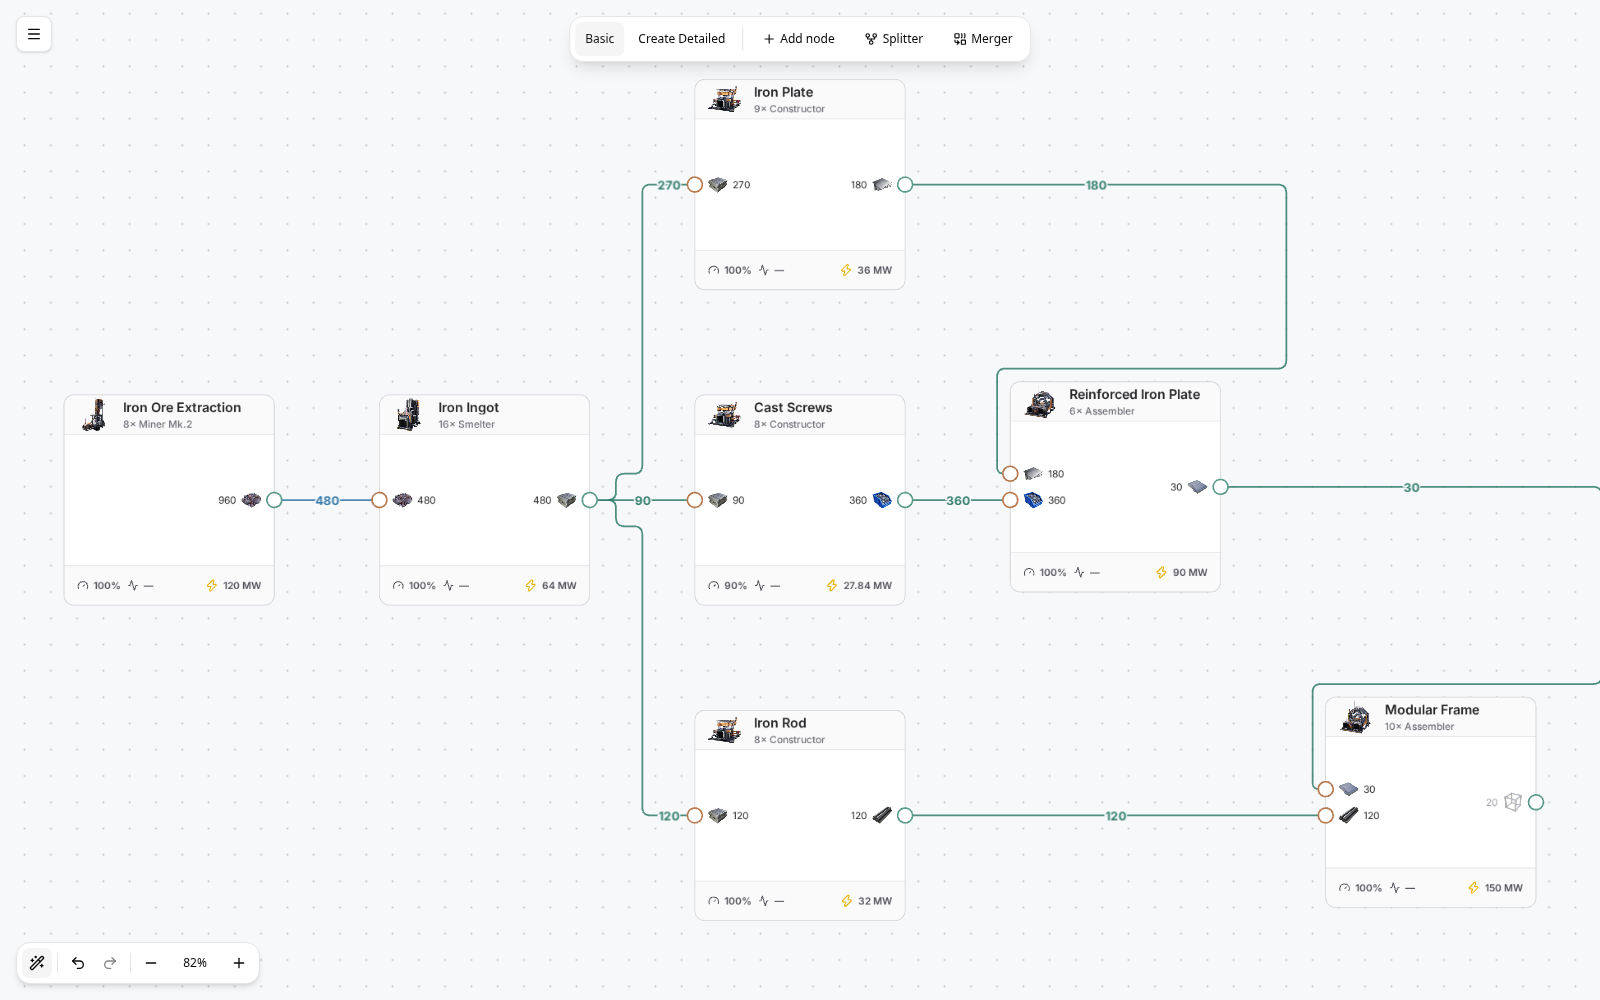
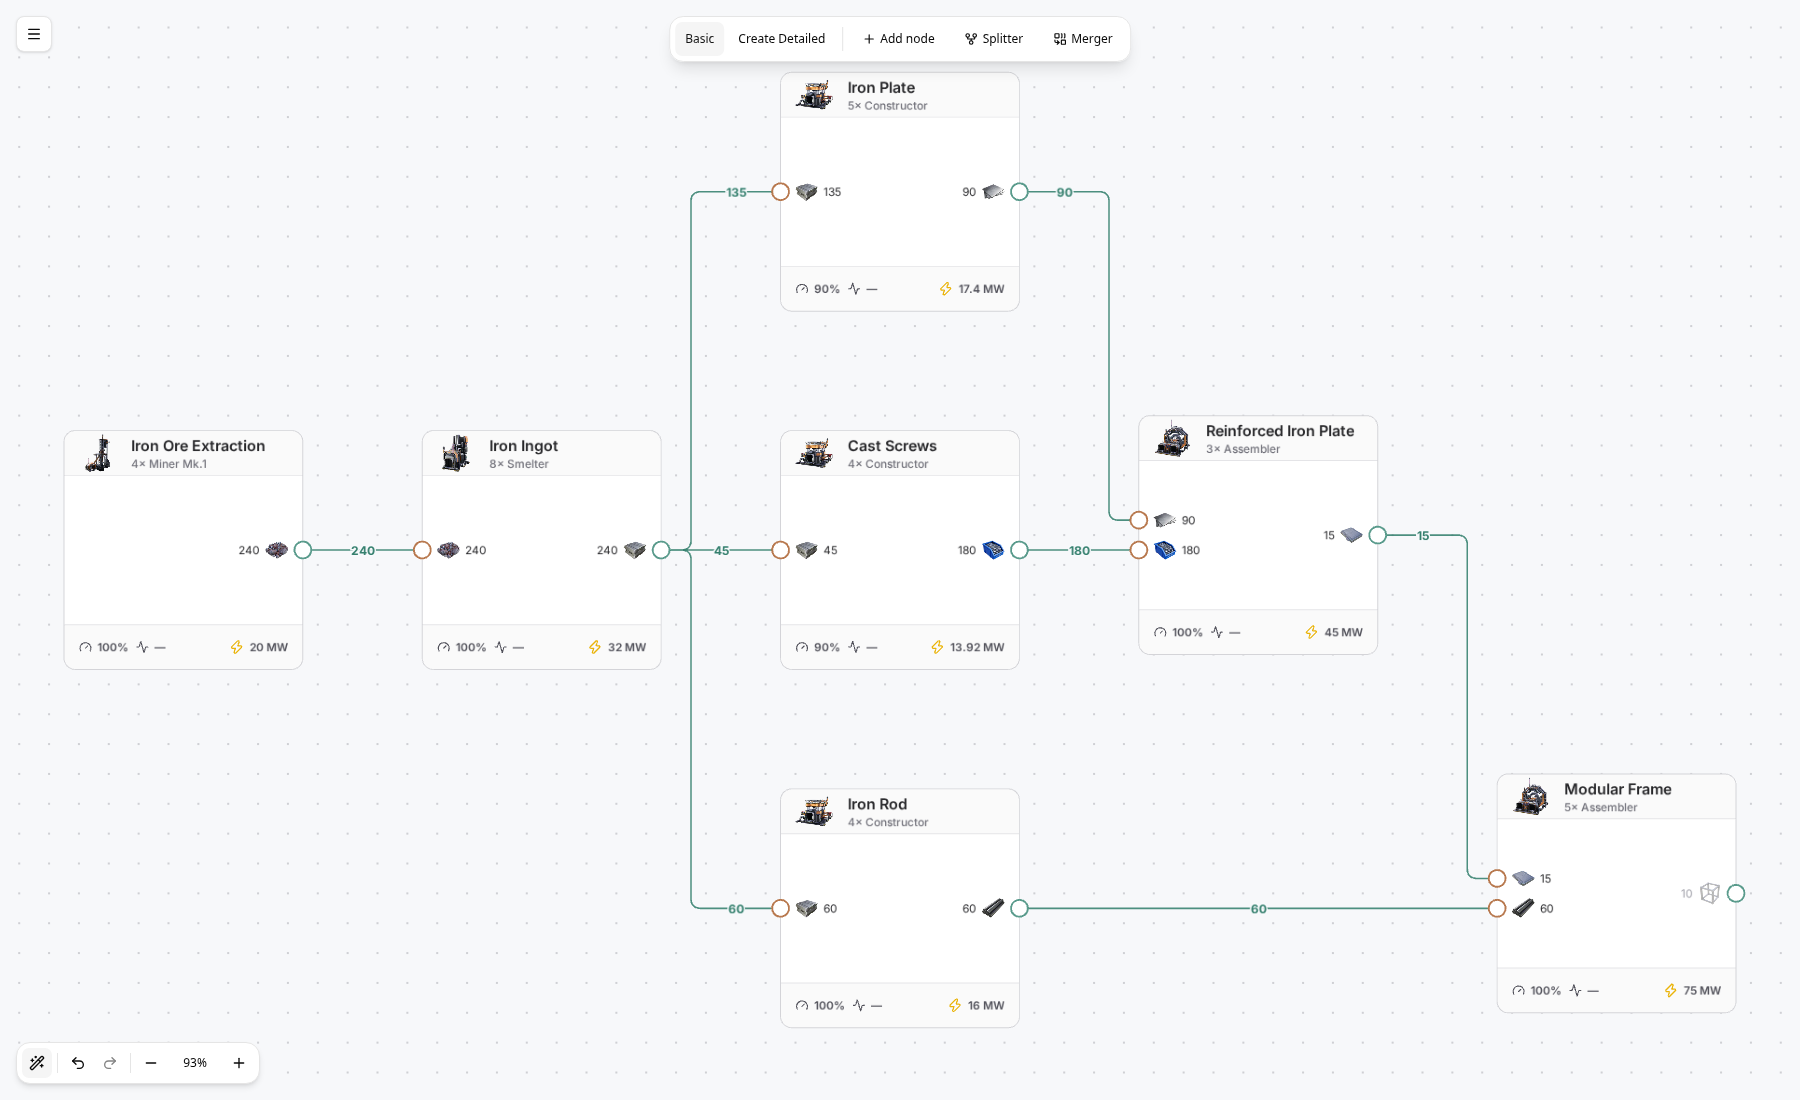
fix(canvas): route Basic plans around visible nodes

diff --git a/apps/web/e2e/basic-layout.spec.ts b/apps/web/e2e/basic-layout.spec.ts
@@ -1,0 +1,97 @@
+import { expect, test } from "@playwright/test";
+
+test("Basic generation and Auto-arrange keep open-corridor links direct", async ({
+  page,
+}, testInfo) => {
+  const errors: string[] = [];
+  page.on("pageerror", (error) => errors.push(error.message));
+  await page.setViewportSize({ width: 1800, height: 1100 });
+  await page.goto("/");
+  const canvas = page.getByRole("application", { name: "Infinite canvas" });
+  await canvas.press("n");
+  await page
+    .getByPlaceholder("Search buildings or recipes...")
+    .fill("modular frame");
+  await page
+    .getByRole("button", { name: "Auto-build Modular Frame", exact: true })
+    .first()
+    .click();
+  await page.getByRole("spinbutton", { name: "Modular Frame rate" }).fill("10");
+  await page
+    .getByText("Alternative recipes · standard recipes by default", {
+      exact: true,
+    })
+    .click();
+  await page
+    .getByRole("textbox", { name: "Search alternative recipes" })
+    .fill("Cast Screws");
+  await page.getByLabel("Cast Screws usage").selectOption("required");
+  await page.getByRole("button", { name: "Generate production plan" }).click();
+  await expect(
+    page.getByRole("dialog", { name: "Auto-build production" }),
+  ).toBeHidden({ timeout: 20000 });
+  const read = () =>
+    page.evaluate(async () => {
+      const storageUrl = "/src/canvas/document-storage.ts";
+      const { createIndexedDbDocumentStorage } = await import(storageUrl);
+      return (await createIndexedDbDocumentStorage().loadWorkspace()).document;
+    });
+  await expect.poll(async () => (await read()).nodes.length).toBe(7);
+  const validate = (document: Awaited<ReturnType<typeof read>>) => {
+    for (const link of document.materialLinks) {
+      const route = link.route as { x: number; y: number }[];
+      const from = route[0]!,
+        to = route.at(-1)!;
+      const travel = route
+        .slice(1)
+        .reduce(
+          (sum, p, i) =>
+            sum + Math.abs(p.x - route[i]!.x) + Math.abs(p.y - route[i]!.y),
+          0,
+        );
+      expect(travel, link.id).toBe(
+        Math.abs(to.x - from.x) + Math.abs(to.y - from.y),
+      );
+      if (from.y === to.y) expect(route, link.id).toEqual([from, to]);
+    }
+  };
+  const generated = await read();
+  validate(generated);
+  // Start the toolbar workflow from an unarranged saved plan so undo has
+  // a distinct state to restore even when generation is already deterministic.
+  await page.evaluate(async () => {
+    const storageUrl = "/src/canvas/document-storage.ts";
+    const { createIndexedDbDocumentStorage } = await import(storageUrl);
+    const storage = createIndexedDbDocumentStorage();
+    const { document } = await storage.loadWorkspace();
+    document.nodes[0].y += 64;
+    for (const link of document.materialLinks) delete link.route;
+    await storage.saveWorkspace(document);
+  });
+  await page.reload();
+  const original = await read();
+  // Exercise the toolbar entry point as well as Auto-build's arrangement.
+  const arrange = page.getByRole("button", {
+    name: "Auto-arrange",
+    exact: true,
+  });
+  await arrange.click();
+  await expect(arrange).toBeEnabled({ timeout: 20000 });
+  await expect
+    .poll(async () =>
+      (await read()).materialLinks.every((link: any) => !!link.route),
+    )
+    .toBe(true);
+  const arranged = await read();
+  validate(arranged);
+  await page.screenshot({
+    path: testInfo.outputPath("basic-direct-links.png"),
+  });
+  await page.getByRole("button", { name: "Undo", exact: true }).click();
+  await expect.poll(read).toEqual(original);
+  await page.getByRole("button", { name: "Redo", exact: true }).click();
+  await expect.poll(read).toEqual(arranged);
+  await page.reload();
+  expect(await read()).toEqual(arranged);
+  expect(errors).toEqual([]);
+});

diff --git a/apps/web/src/canvas/layout-routing.ts b/apps/web/src/canvas/layout-routing.ts
@@ -137,7 +137,15 @@ export function routeBetweenGroups(
   document: CanvasDocument,
   groups: readonly LayoutGroup[],
   initial: Routes,
+  topology: "aggregate" | "physical" = "physical",
 ): Map<string, readonly Point[]> {
+  // Recipe/logistics blocks guide placement in both modes, but only Detailed
+  // draws group boxes. Basic routes around the actual cards, including links
+  // between members of the same recipe block.
+  const boundaries = topology === "physical" ? groups : [];
+  const nodeById = new Map(
+    document.nodes.map((node) => [node.configuration.id, node]),
+  );
   const owners = new Map(
     groups.flatMap((group) => group.nodeIds.map((id) => [id, group] as const)),
   );
@@ -151,17 +159,25 @@ export function routeBetweenGroups(
     a.id.localeCompare(b.id),
   );
   const external = links.filter(
-    (link) => owners.get(link.from.nodeId) !== owners.get(link.to.nodeId),
+    (link) =>
+      topology === "aggregate" ||
+      owners.get(link.from.nodeId) !== owners.get(link.to.nodeId),
   );
   const candidates = new Map<string, readonly (readonly Point[])[]>();
   for (const link of external) {
     const from = ports.get(portKey(link.from.nodeId, link.from.portId))!;
     const to = ports.get(portKey(link.to.nodeId, link.to.portId))!;
-    const fromGroup = owners.get(from.nodeId)!;
-    const toGroup = owners.get(to.nodeId)!;
+    const fromBounds =
+      topology === "physical"
+        ? owners.get(from.nodeId)!
+        : nodeById.get(from.nodeId)!;
+    const toBounds =
+      topology === "physical"
+        ? owners.get(to.nodeId)!
+        : nodeById.get(to.nodeId)!;
     const obstacles = [
       ...document.nodes.map((node) => ({ ...node, id: node.configuration.id })),
-      ...groupRouteObstacles(groups, from.nodeId, to.nodeId),
+      ...groupRouteObstacles(boundaries, from.nodeId, to.nodeId),
     ];
     const padded = obstacles.map((rect) => ({
       ...rect,
@@ -177,10 +193,10 @@ export function routeBetweenGroups(
     if (
       from.side === "right" &&
       to.side === "left" &&
-      fromGroup.x + fromGroup.width < toGroup.x
+      fromBounds.x + fromBounds.width < toBounds.x
     ) {
-      const start = fromGroup.x + fromGroup.width + 32;
-      const end = toGroup.x - 32;
+      const start = fromBounds.x + fromBounds.width + 32;
+      const end = toBounds.x - 32;
       const lanes = new Set(
         [
           ...seed
@@ -254,7 +270,7 @@ export function routeBetweenGroups(
       }
       routes.set(link.id, chosen);
     }
-  spaceLayoutRoutes(document.nodes, links, routes, groups, external);
+  spaceLayoutRoutes(document.nodes, links, routes, boundaries, external);
   return routes;
 }
 

diff --git a/apps/web/src/canvas/basic-layout.test.ts b/apps/web/src/canvas/basic-layout.test.ts
@@ -1,0 +1,52 @@
+import { expect, it } from "vitest";
+import ELK from "elkjs/lib/elk.bundled.js";
+import { generateProduction } from "../auto-build/generate-production";
+import { arrangeCanvas } from "./auto-layout";
+import { materialPortGeometry } from "./material-port-geometry";
+import { routeIsClear } from "./orthogonal-router";
+
+it("routes a Basic modular-frame factory directly through its open corridors", async () => {
+  const source = generateProduction({
+    outputs: [{ itemId: "Desc_ModularFrame_C", ratePerMinute: 10 }],
+    allowedAlternateIds: [],
+    pinnedRecipes: { Desc_IronScrew_C: "Recipe_Alternate_Screw_C" },
+  }).document;
+  const result = await arrangeCanvas(source, new ELK(), "aggregate");
+  const ports = result.nodes.flatMap(materialPortGeometry);
+  for (const link of result.materialLinks) {
+    const route = link.route!;
+    const from = ports.find(
+      (p) => p.nodeId === link.from.nodeId && p.port.id === link.from.portId,
+    )!.point;
+    const to = ports.find(
+      (p) => p.nodeId === link.to.nodeId && p.port.id === link.to.portId,
+    )!.point;
+    expect(route[0]).toEqual(from);
+    expect(route.at(-1)).toEqual(to);
+    for (const p of route) {
+      expect(p.x, link.id).toBeGreaterThanOrEqual(from.x);
+      expect(p.x, link.id).toBeLessThanOrEqual(to.x);
+    }
+    const travel = route
+      .slice(1)
+      .reduce(
+        (n, p, i) =>
+          n + Math.abs(p.x - route[i]!.x) + Math.abs(p.y - route[i]!.y),
+        0,
+      );
+    expect(travel, link.id).toBe(
+      Math.abs(to.x - from.x) + Math.abs(to.y - from.y),
+    );
+    if (from.y === to.y) expect(route, link.id).toEqual([from, to]);
+    expect(
+      routeIsClear(
+        route,
+        result.nodes.map((node) => ({ ...node, id: node.configuration.id })),
+      ),
+    ).toBe(true);
+  }
+  expect(
+    result.materialLinks.map(({ route: _route, ...link }) => link),
+  ).toEqual(source.materialLinks);
+  expect(await arrangeCanvas(result, new ELK(), "aggregate")).toEqual(result);
+});

diff --git a/apps/web/src/canvas/layout-routing.test.ts b/apps/web/src/canvas/layout-routing.test.ts
@@ -139,3 +139,44 @@ it("keeps bypass belts outside unrelated group interiors", () => {
   );
   expect(routeIsClear(result.get(edge.id)!, [obstacle])).toBe(true);
 });
+
+it("routes Basic links around visible cards without enforcing group boundaries", () => {
+  const nodes = [
+    testCanvasNode("a", 0, 0),
+    testCanvasNode("b", 900, 0),
+    testCanvasNode("blocker", 400, 0),
+  ];
+  const edge = link("ab", "a", "b");
+  const from = materialPortGeometry(nodes[0]!).find(
+    (p) => p.port.id === edge.from.portId,
+  )!.point;
+  const to = materialPortGeometry(nodes[1]!).find(
+    (p) => p.port.id === edge.to.portId,
+  )!.point;
+  // Both endpoints share a recipe block; Basic still routes their connection.
+  const groups = [
+    {
+      id: "recipe",
+      x: -100,
+      y: -100,
+      width: 1200,
+      height: 400,
+      nodeIds: ["a", "b", "blocker"],
+    },
+  ];
+  const result = routeBetweenGroups(
+    { ...EMPTY_CANVAS_DOCUMENT, nodes, materialLinks: [edge] },
+    groups,
+    new Map([[edge.id, [from, to]]]),
+    "aggregate",
+  ).get(edge.id)!;
+  expect(result).not.toEqual([from, to]);
+  expect(result[0]).toEqual(from);
+  expect(result.at(-1)).toEqual(to);
+  expect(
+    routeIsClear(
+      result,
+      nodes.map((node) => ({ ...node, id: node.configuration.id })),
+    ),
+  ).toBe(true);
+});

diff --git a/apps/web/src/canvas/production-groups.test.ts b/apps/web/src/canvas/production-groups.test.ts
@@ -17,11 +17,19 @@ import { parseGroupNames } from "./group-names";
 import { hitProductionGroup } from "./group-label-layout";
 
 it("selects, renames, resets and persists production and logistics group names", async () => {
-  const basic = await arrangeCanvas(modularFrameFactory(false), new ELK());
+  const basic = await arrangeCanvas(
+    modularFrameFactory(false),
+    new ELK(),
+    "physical",
+  );
   const detailed = materializeDetailedCanvas(modularFrameFactory(false));
   for (const source of [
     basic,
-    await arrangeCanvas(detailedDocumentToEditor(detailed), new ELK()),
+    await arrangeCanvas(
+      detailedDocumentToEditor(detailed),
+      new ELK(),
+      "physical",
+    ),
   ]) {
     const editor = createCanvasEditor({
       document: source,
@@ -92,7 +100,11 @@ it("rejects malformed saved group names and accepts older saves", () => {
 });
 
 it("does not expose groups or accept group selection in Basic mode", async () => {
-  const document = await arrangeCanvas(modularFrameFactory(false), new ELK());
+  const document = await arrangeCanvas(
+    modularFrameFactory(false),
+    new ELK(),
+    "physical",
+  );
   const group = productionRegions(document, "physical")[0]!;
   expect(productionRegions(document, "aggregate")).toEqual([]);
   const editor = createCanvasEditor({ document });

diff --git a/apps/web/src/canvas/auto-layout.ts b/apps/web/src/canvas/auto-layout.ts
@@ -290,6 +290,7 @@ async function logisticsBlock(
 export async function arrangeCanvas(
   document: CanvasDocument,
   elk: Pick<ELK, "layout">,
+  topology: "aggregate" | "physical",
 ): Promise<CanvasDocument> {
   if (!document.nodes.length) return document;
   // If a crowded corridor cannot be repaired locally, reserve more space and
@@ -299,6 +300,7 @@ export async function arrangeCanvas(
       document,
       elk,
       PREFERRED_LINE_GAP * multiplier,
+      topology,
     );
     const routes = new Map(
       result.materialLinks.map((link) => [link.id, link.route!]),
@@ -323,6 +325,7 @@ async function arrangeAtSpacing(
   document: CanvasDocument,
   elk: Pick<ELK, "layout">,
   laneGap: number,
+  topology: "aggregate" | "physical",
 ): Promise<CanvasDocument> {
   // Stable model order makes repeated arrangements independent of canvas positions.
   const sorted: CanvasDocument = {
@@ -589,6 +592,7 @@ async function arrangeAtSpacing(
       };
     }),
     new Map(arranged.materialLinks.map((link) => [link.id, link.route!])),
+    topology,
   );
   return {
     ...arranged,

diff --git a/apps/web/src/canvas/auto-layout-request.ts b/apps/web/src/canvas/auto-layout-request.ts
@@ -6,6 +6,7 @@ import type { CanvasDocument } from "./document";
 export function requestCanvasArrangement(
   document: CanvasDocument,
   signal: AbortSignal,
+  topology: "aggregate" | "physical",
 ): Promise<CanvasDocument> {
   return new Promise((resolve, reject) => {
     if (signal.aborted) {
@@ -35,7 +36,7 @@ export function requestCanvasArrangement(
         workerFactory: () => worker,
         algorithms: ["layered"],
       });
-      void arrangeCanvas(document, elk).then((result) => {
+      void arrangeCanvas(document, elk, topology).then((result) => {
         cleanup();
         resolve(result);
       }, fail);

diff --git a/apps/web/src/canvas/auto-layout.test.ts b/apps/web/src/canvas/auto-layout.test.ts
@@ -33,7 +33,7 @@ import { materialPortGeometry } from "./material-port-geometry";
 import { routeIsClear } from "./orthogonal-router";
 
 const arrangeCanvas = (document: CanvasDocument) =>
-  computeArrangement(document, new ELK());
+  computeArrangement(document, new ELK(), "physical");
 
 function expectRecipeColumns(document: CanvasDocument) {
   const recipes = new Map<string, CanvasNode[]>();

diff --git a/apps/web/src/auto-build/request-auto-build.ts b/apps/web/src/auto-build/request-auto-build.ts
@@ -64,6 +64,10 @@ export async function requestAutoBuild(
   onStage("Arranging machines");
   return {
     ...result,
-    document: await requestCanvasArrangement(result.document, signal),
+    document: await requestCanvasArrangement(
+      result.document,
+      signal,
+      "aggregate",
+    ),
   };
 }

diff --git a/apps/web/src/app.tsx b/apps/web/src/app.tsx
@@ -193,6 +193,7 @@ function CanvasWorkspace({
       const document = await requestCanvasArrangement(
         source,
         controller.signal,
+        editor.topology,
       );
       if (controller.signal.aborted) return;
       editor.dispatch({ type: "document.arrange", source, document });

diff --git a/apps/web/src/detailed-conversion/request-conversion.ts b/apps/web/src/detailed-conversion/request-conversion.ts
@@ -68,6 +68,7 @@ export async function requestDetailedConversion(
   const arranged = await requestCanvasArrangement(
     detailedDocumentToEditor(result),
     signal,
+    "physical",
   );
   signal.throwIfAborted();
   return detailedDocumentFromEditor(arranged, result.tiers);

diff --git a/docs/plans/production-layout/README.md b/docs/plans/production-layout/README.md
@@ -4,7 +4,9 @@ Auto-arrange and Detailed conversion use the same layout. Recipes form vertical
 stacks; parallel steps occupy the same production stage. Physical logistics sit
 between stages, aligned with their connected machine ports. The diagram stays on one editable canvas.
 Group outlines, inspect icons, summaries, and renaming are shown only in Detailed
-mode; Basic mode shows its recipe cards directly.
+mode; Basic mode shows its recipe cards directly. Basic routes around visible
+node cards, without the hidden group boundaries or side-entry constraints used
+by Detailed. Open corridors stay direct, including shared-output branches.
 
 These screenshots are from the actual browser conversion workflow: 10 Modular
 Frames/min, Cast Screws, and Mk.1 belts.
